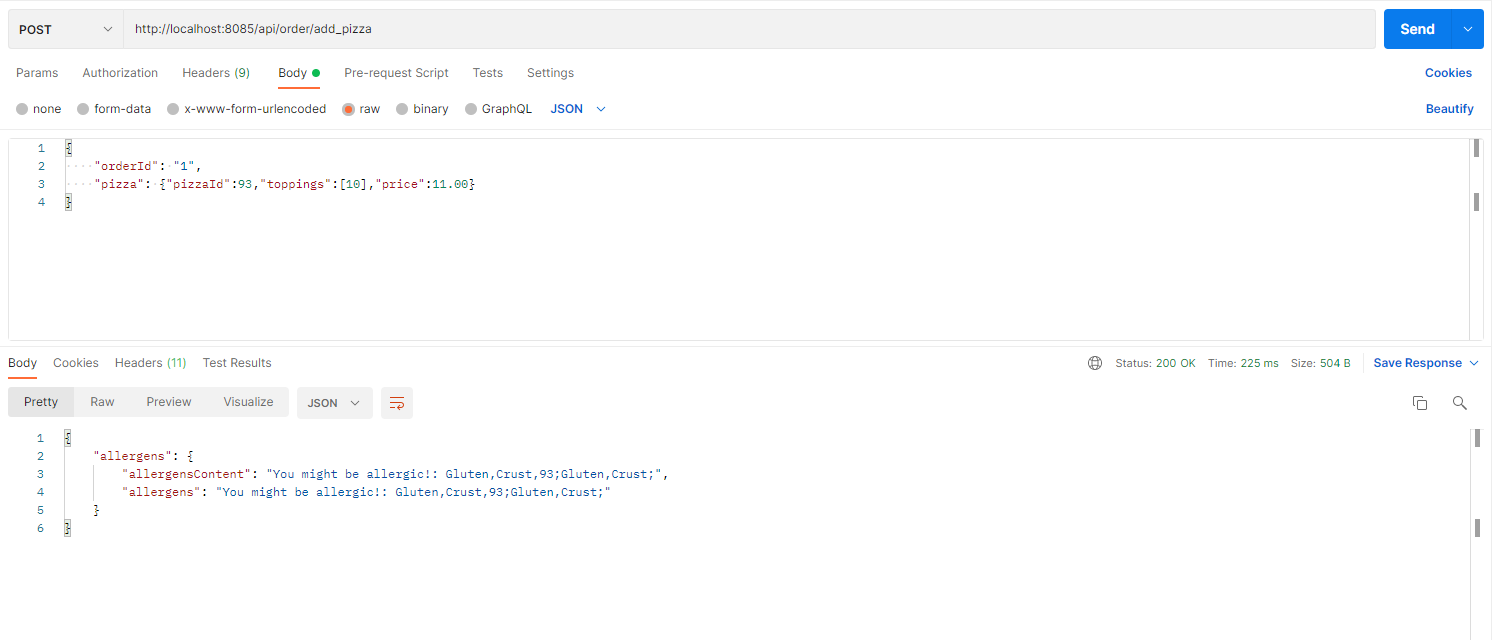
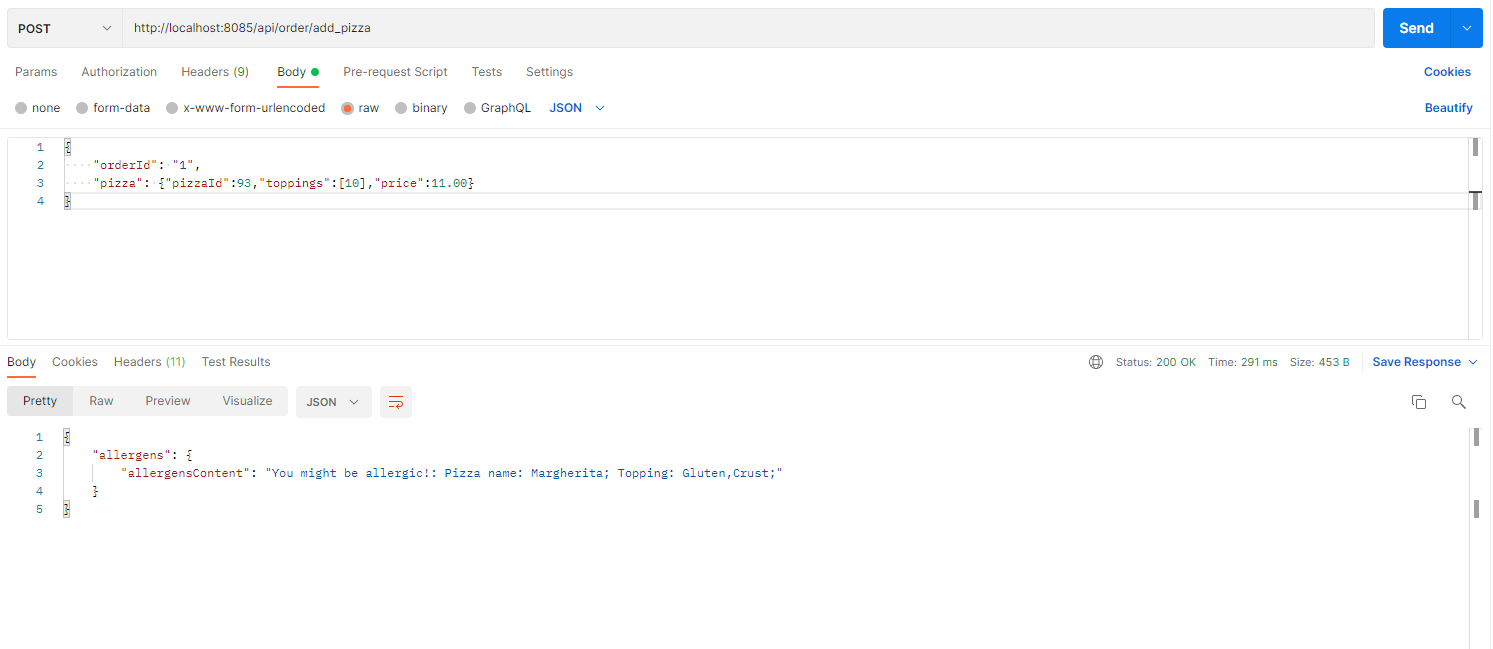
Small fix in response message

diff --git a/menu-microservice/src/main/java/nl/tudelft/sem/group06b/menu/domain/MenuService.java b/menu-microservice/src/main/java/nl/tudelft/sem/group06b/menu/domain/MenuService.java
@@ -324,7 +324,7 @@ public class MenuService {
                 System.out.println(a);
                 System.out.println(currPizza.get().containsAllergen(a));
                 if (currPizza.get().containsAllergen(a).isPresent()) {
-                    ret += currPizza.get().containsAllergen(a).get() + ";";
+                    ret += "Pizza name: " + currPizza.get().getName() + "; ";
                 }
             }
         }
@@ -332,7 +332,7 @@ public class MenuService {
         for (Long l : toppingList) {
             Optional<String> s = checkForAllergiesTopping(l, allergies);
             if (s.isPresent()) {
-                ret += s.get();
+                ret += "Topping: " + s.get();
             }
         }
 
@@ -373,7 +373,7 @@ public class MenuService {
         if (curr.isPresent()) {
             for (Allergy a : allergyList) {
                 if (curr.get().containsAllergy(a).isPresent()) {
-                    ret += curr.get().containsAllergy(a).get() + ";";
+                    ret += curr.get().containsAllergy(a).get() + "; ";
                 }
             }
         }

diff --git a/order-microservice/src/main/java/nl/tudelft/sem/group06b/order/service/editing/OrderEditorImpl.java b/order-microservice/src/main/java/nl/tudelft/sem/group06b/order/service/editing/OrderEditorImpl.java
@@ -59,7 +59,7 @@ public class OrderEditorImpl implements OrderEditor {
         // Query the Menu to see if pizza contains allergens and store the response to inform the user
         String responseMessage = menuCommunication.containsAllergen(pizza, memberId, token);
         if (responseMessage != null && !responseMessage.equals("")) {
-            allergens.setAllergens(responseMessage);
+            allergens.setAllergensContent(responseMessage);
         }
 
         Order order = orderRepository.getOne(orderId);
@@ -108,7 +108,7 @@ public class OrderEditorImpl implements OrderEditor {
         // Query the Menu to see if topping contains allergens and store the response to inform the user
         String responseMessage = menuCommunication.containsAllergenTopping(toppingId, memberId, token);
         if (responseMessage != null && !responseMessage.equals("")) {
-            allergens.setAllergens(responseMessage);
+            allergens.setAllergensContent(responseMessage);
         }
 
         Order order = orderRepository.getOne(orderId);

diff --git a/order-microservice/src/main/java/nl/tudelft/sem/group06b/order/domain/Allergens.java b/order-microservice/src/main/java/nl/tudelft/sem/group06b/order/domain/Allergens.java
@@ -9,11 +9,4 @@ public class Allergens {
 
     private String allergensContent;
 
-    public String getAllergens() {
-        return allergensContent;
-    }
-
-    public void setAllergens(String allergensContent) {
-        this.allergensContent = allergensContent;
-    }
 }
